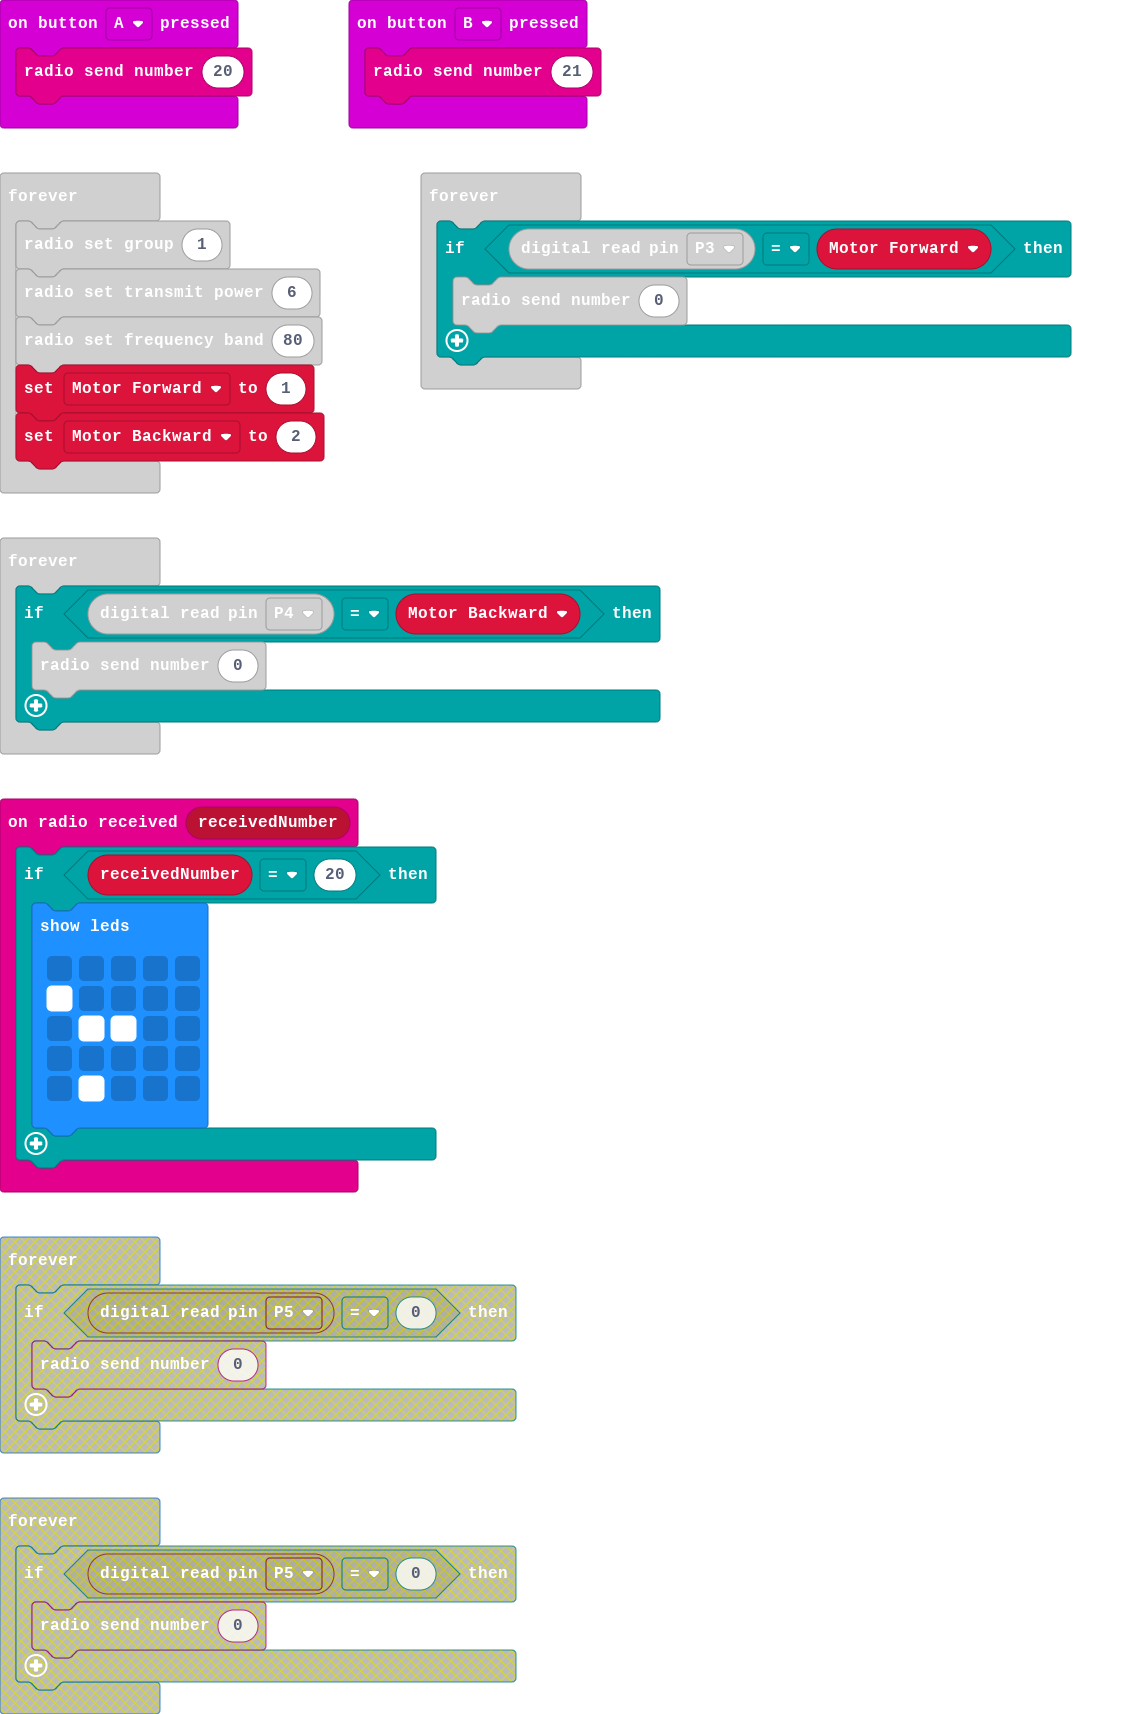
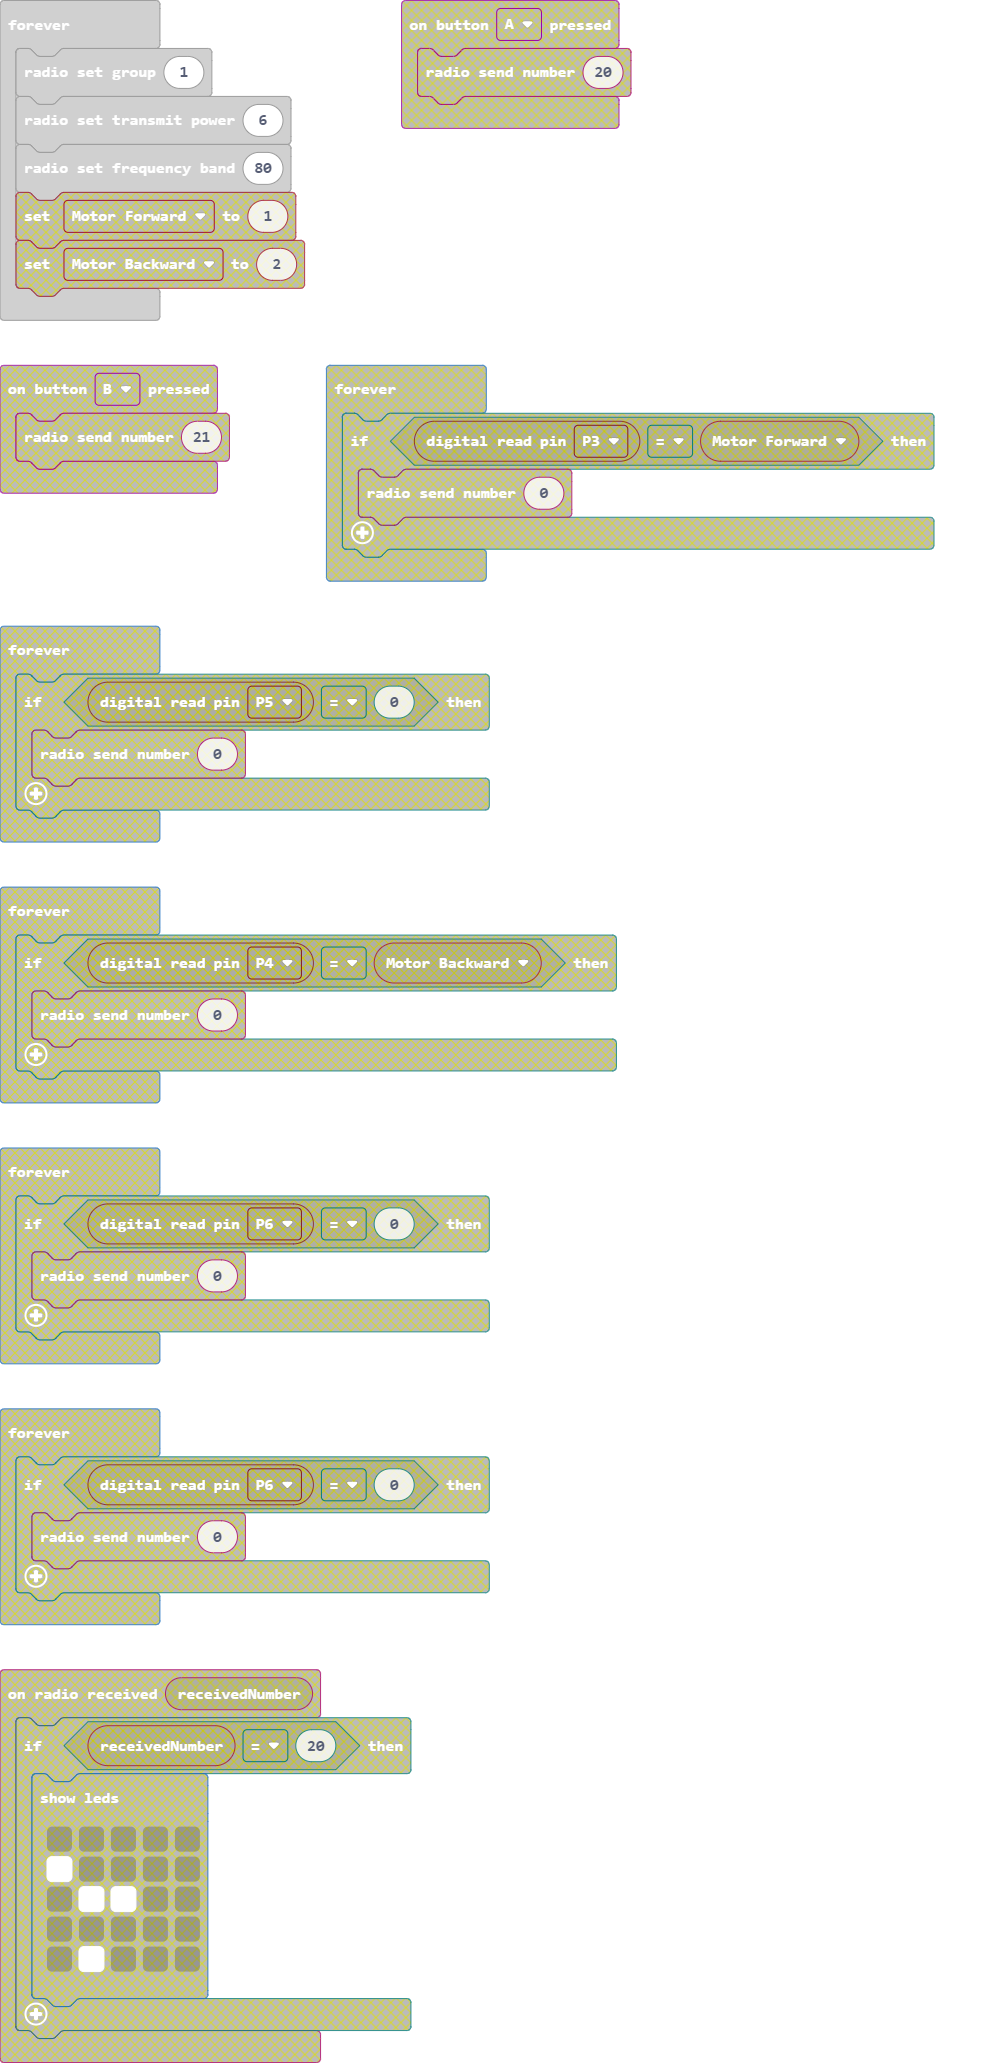
Update main.blocks, main.ts

diff --git a/main.ts b/main.ts
@@ -1,51 +1,5 @@
-let Motor_Forward = 0
-let Motor_Backward = 0
-radio.onReceivedNumber(function (receivedNumber) {
-    if (receivedNumber == 20) {
-        basic.showLeds(`
-            . . . . .
-            # . . . .
-            . # # . .
-            . . . . .
-            . # . . .
-            `)
-    }
-})
-input.onButtonPressed(Button.A, function () {
-    radio.sendNumber(20)
-})
-input.onButtonPressed(Button.B, function () {
-    radio.sendNumber(21)
-})
 basic.forever(function () {
     radio.setGroup(1)
     radio.setTransmitPower(6)
     radio.setFrequencyBand(80)
-    Motor_Forward = 1
-    Motor_Backward = 2
-})
-basic.forever(function () {
-    if (pins.digitalReadPin(DigitalPin.P3) == Motor_Forward) {
-        radio.sendNumber(0)
-    }
-})
-basic.forever(function () {
-    if (pins.digitalReadPin(DigitalPin.P5) == 0) {
-        radio.sendNumber(0)
-    }
-})
-basic.forever(function () {
-    if (pins.digitalReadPin(DigitalPin.P4) == Motor_Backward) {
-        radio.sendNumber(0)
-    }
-})
-basic.forever(function () {
-    if (pins.digitalReadPin(DigitalPin.P6) == 0) {
-        radio.sendNumber(0)
-    }
-})
-basic.forever(function () {
-    if (pins.digitalReadPin(DigitalPin.P6) == 0) {
-        radio.sendNumber(0)
-    }
 })
